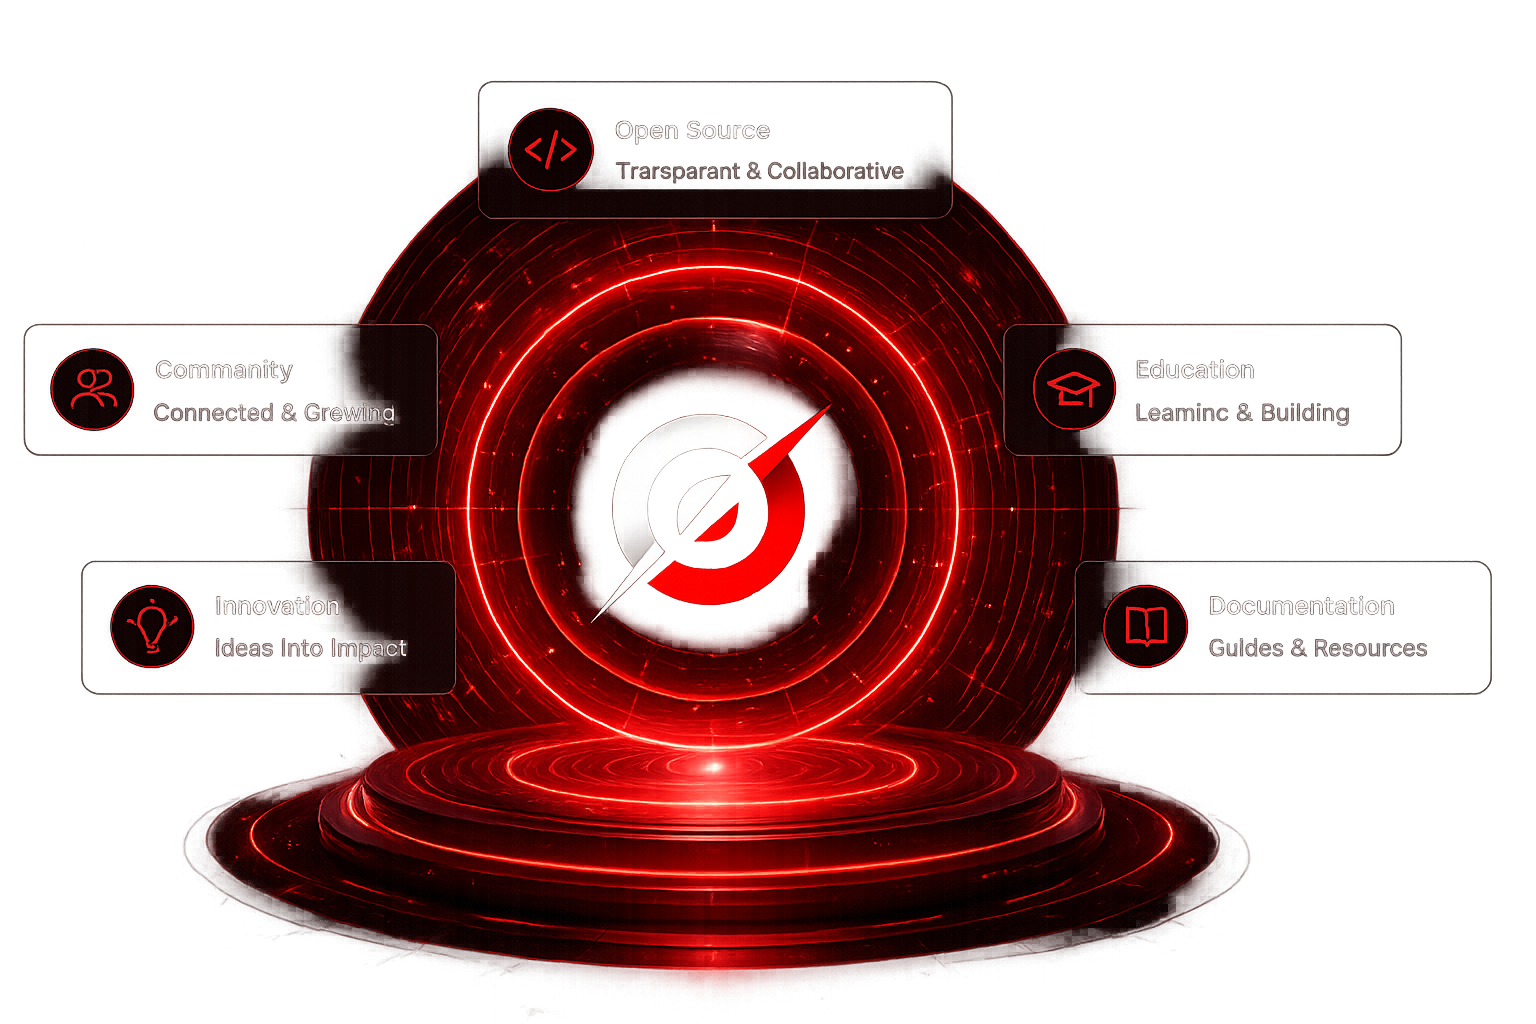
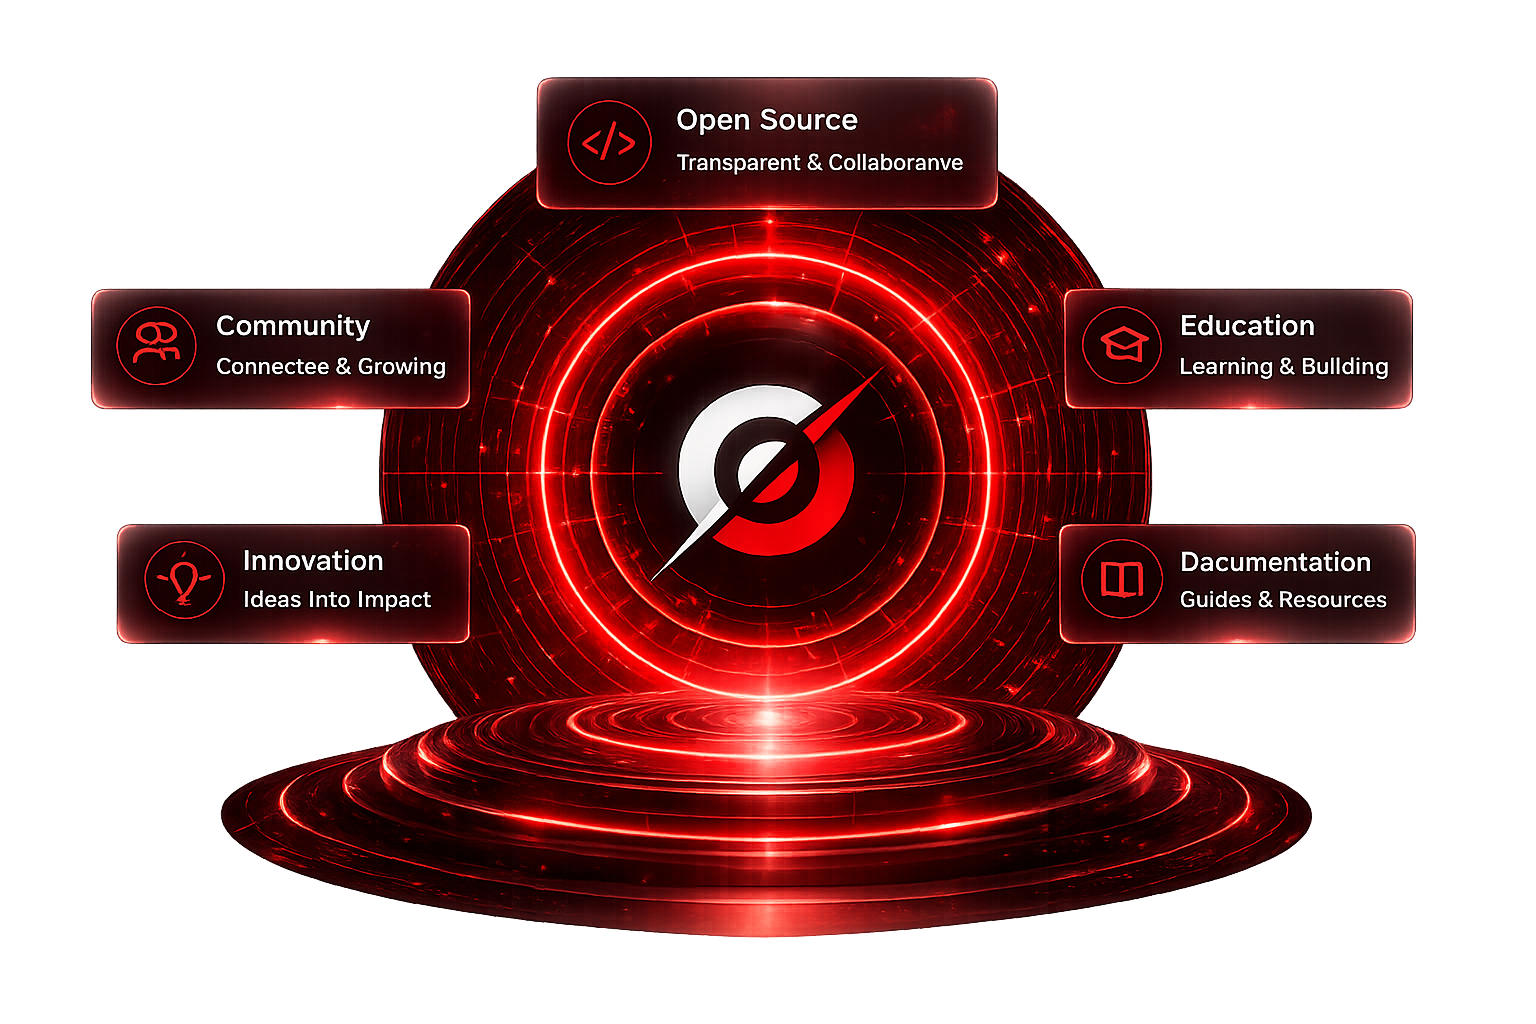
Update index.html

diff --git a/index.html b/index.html
@@ -113,21 +113,15 @@
         </a>
     </div>
 
-    <a href="https://unstop.com/p/omnikon-aiml-quiz-challenge-2026-omnikon-1709614" target="_blank" class="w-full">
-        <button class="w-full justify-center bg-primary/20 hover:bg-primary/30 border border-primary text-primary font-label-mono text-label-mono px-6 py-3 flex items-center gap-2 rounded-md transition-all shadow-[0_0_15px_rgba(255,42,75,0.2)]">
-            <span class="material-symbols-outlined text-sm" data-icon="emoji_events">emoji_events</span>
-            Register for AI/ML Quiz
-        </button>
-    </a>
 </div>
 </div>
 
 <div class="flex items-center justify-center relative z-10 w-full h-full min-h-[600px]">
     <!-- Base: Soft radial red glow -->
-    <div class="absolute top-[52%] left-[46%] -translate-x-1/2 -translate-y-1/2 w-[600px] h-[600px] bg-primary/20 rounded-full blur-[120px] z-0 pointer-events-none"></div>
+    <div class="absolute top-1/2 left-1/2 -translate-x-1/2 -translate-y-1/2 w-[600px] h-[600px] bg-primary/20 rounded-full blur-[120px] z-0 pointer-events-none"></div>
     
     <!-- Middle: Animated concentric rings -->
-    <div class="absolute top-[52%] left-[46%] -translate-x-1/2 -translate-y-1/2 w-full h-full flex items-center justify-center z-0 pointer-events-none">
+    <div class="absolute top-1/2 left-1/2 -translate-x-1/2 -translate-y-1/2 w-full h-full flex items-center justify-center z-0 pointer-events-none">
         <div class="absolute w-[350px] h-[350px] border border-primary/30 rounded-full animate-[ping_3s_cubic-bezier(0,0,0.2,1)_infinite]"></div>
         <div class="absolute w-[500px] h-[500px] border border-primary/20 rounded-full animate-[ping_4s_cubic-bezier(0,0,0.2,1)_infinite]" style="animation-delay: 1s;"></div>
         <div class="absolute w-[650px] h-[650px] border border-primary/10 rounded-full animate-[ping_5s_cubic-bezier(0,0,0.2,1)_infinite]" style="animation-delay: 2s;"></div>
@@ -360,18 +354,15 @@
 
         <div class="flex flex-col gap-6 relative before:absolute before:left-[19px] before:top-4 before:bottom-4 before:w-[2px] before:bg-gradient-to-b before:from-primary/50 before:to-transparent">
             
-            <!-- LIVE: AI/ML Quiz -->
+            <!-- AI/ML Quiz -->
             <div class="relative pl-12 scroll-reveal">
-                <div class="absolute left-0 top-6 w-10 h-10 -translate-x-1/2 -translate-y-1/2 rounded-full bg-surface border-2 border-primary flex items-center justify-center z-10 animate-pulse-glow">
-                    <div class="w-3 h-3 bg-primary rounded-full"></div>
+                <div class="absolute left-0 top-6 w-6 h-6 -translate-x-1/2 -translate-y-1/2 rounded-full bg-surface border-2 border-primary flex items-center justify-center z-10">
+                    <div class="w-2 h-2 bg-primary rounded-full"></div>
                 </div>
-                <div class="glass-panel p-1 rounded-xl group hover:scale-[1.02] transition-transform duration-300 relative overflow-hidden border-primary/40 hover:border-primary/80 shadow-[0_0_20px_rgba(255,42,75,0.1)] hover:shadow-[0_0_30px_rgba(255,42,75,0.2)]">
-                    <div class="absolute left-0 top-0 bottom-0 w-1 bg-primary animate-pulse"></div>
+                <div class="glass-panel p-1 rounded-xl group hover:scale-[1.02] transition-transform duration-300 relative overflow-hidden border-primary/40 hover:border-primary/80 shadow-[0_0_10px_rgba(255,42,75,0.05)] hover:shadow-[0_0_15px_rgba(255,42,75,0.1)]">
+                    <div class="absolute left-0 top-0 bottom-0 w-1 bg-primary"></div>
                     <div class="p-4">
-                        <div class="flex justify-between items-start mb-3">
-                            <span class="px-2 py-1 bg-primary/20 text-primary text-[10px] font-bold rounded uppercase tracking-wider border border-primary/30 flex items-center gap-1">
-                                <div class="w-1.5 h-1.5 rounded-full bg-primary animate-pulse"></div> LIVE
-                            </span>
+                        <div class="flex justify-end items-start mb-3">
                             <span class="text-primary text-xs font-code-sm border border-primary/30 px-2 py-1 rounded">Featured</span>
                         </div>
                         <div class="flex items-center gap-3 mb-3">
@@ -391,21 +382,8 @@
                                 <div class="text-primary font-bold text-sm">60</div>
                                 <div class="text-on-surface-variant text-[9px] uppercase tracking-wider">Minutes</div>
                             </div>
-                            <div class="bg-surface/50 p-1.5 px-2 rounded border border-surface-variant/30">
-                                <div class="text-primary font-bold text-sm">₹1000</div>
-                                <div class="text-on-surface-variant text-[9px] uppercase tracking-wider">Prize Pool</div>
-                            </div>
-                            <div class="bg-surface/50 p-1.5 px-2 rounded border border-surface-variant/30">
-                                <div class="text-primary font-bold text-sm">₹30</div>
-                                <div class="text-on-surface-variant text-[9px] uppercase tracking-wider">Entry</div>
-                            </div>
                         </div>
 
-                        <div class="border-t border-surface-variant/30 pt-3">
-                            <a href="https://unstop.com/p/omnikon-aiml-quiz-challenge-2026-omnikon-1709614" target="_blank" class="block w-full">
-                                <button class="w-full py-2 bg-primary/10 hover:bg-primary/20 text-primary border border-primary/30 rounded-md font-label-mono text-xs transition-colors">Register Now</button>
-                            </a>
-                        </div>
                     </div>
                 </div>
             </div>
@@ -953,14 +931,14 @@ document.addEventListener('DOMContentLoaded', () => {
   <script type="module" src="chatbot.js"></script>
 
 <footer class="bg-background dark:bg-background border-t border-surface-variant relative z-10">
-<div class="grid grid-cols-1 md:grid-cols-4 gap-gutter px-gutter py-section-gap max-w-container-max mx-auto" id="about">
+<div class="flex flex-col md:flex-row justify-between gap-gutter px-gutter py-section-gap max-w-container-max mx-auto w-full" id="about">
 <div class="space-y-4">
 <div class="text-headline-md font-headline-md font-bold text-primary flex items-center gap-2">
 <span class="material-symbols-outlined" data-icon="hexagon" data-weight="fill" style="font-variation-settings: &quot;FILL&quot; 1;">hexagon</span>
                     Omnikon
                 </div>
 <p class="text-body-base font-body-base text-on-surface-variant text-sm max-w-xs">
-                    Open source, open learning, devloped on learning, built by students, scaled by contributors around the globe.
+                    Open source, open learning, developed on learning, built by students, scaled by contributors around the globe.
                 </p>
 </div>
 <div class="space-y-4">